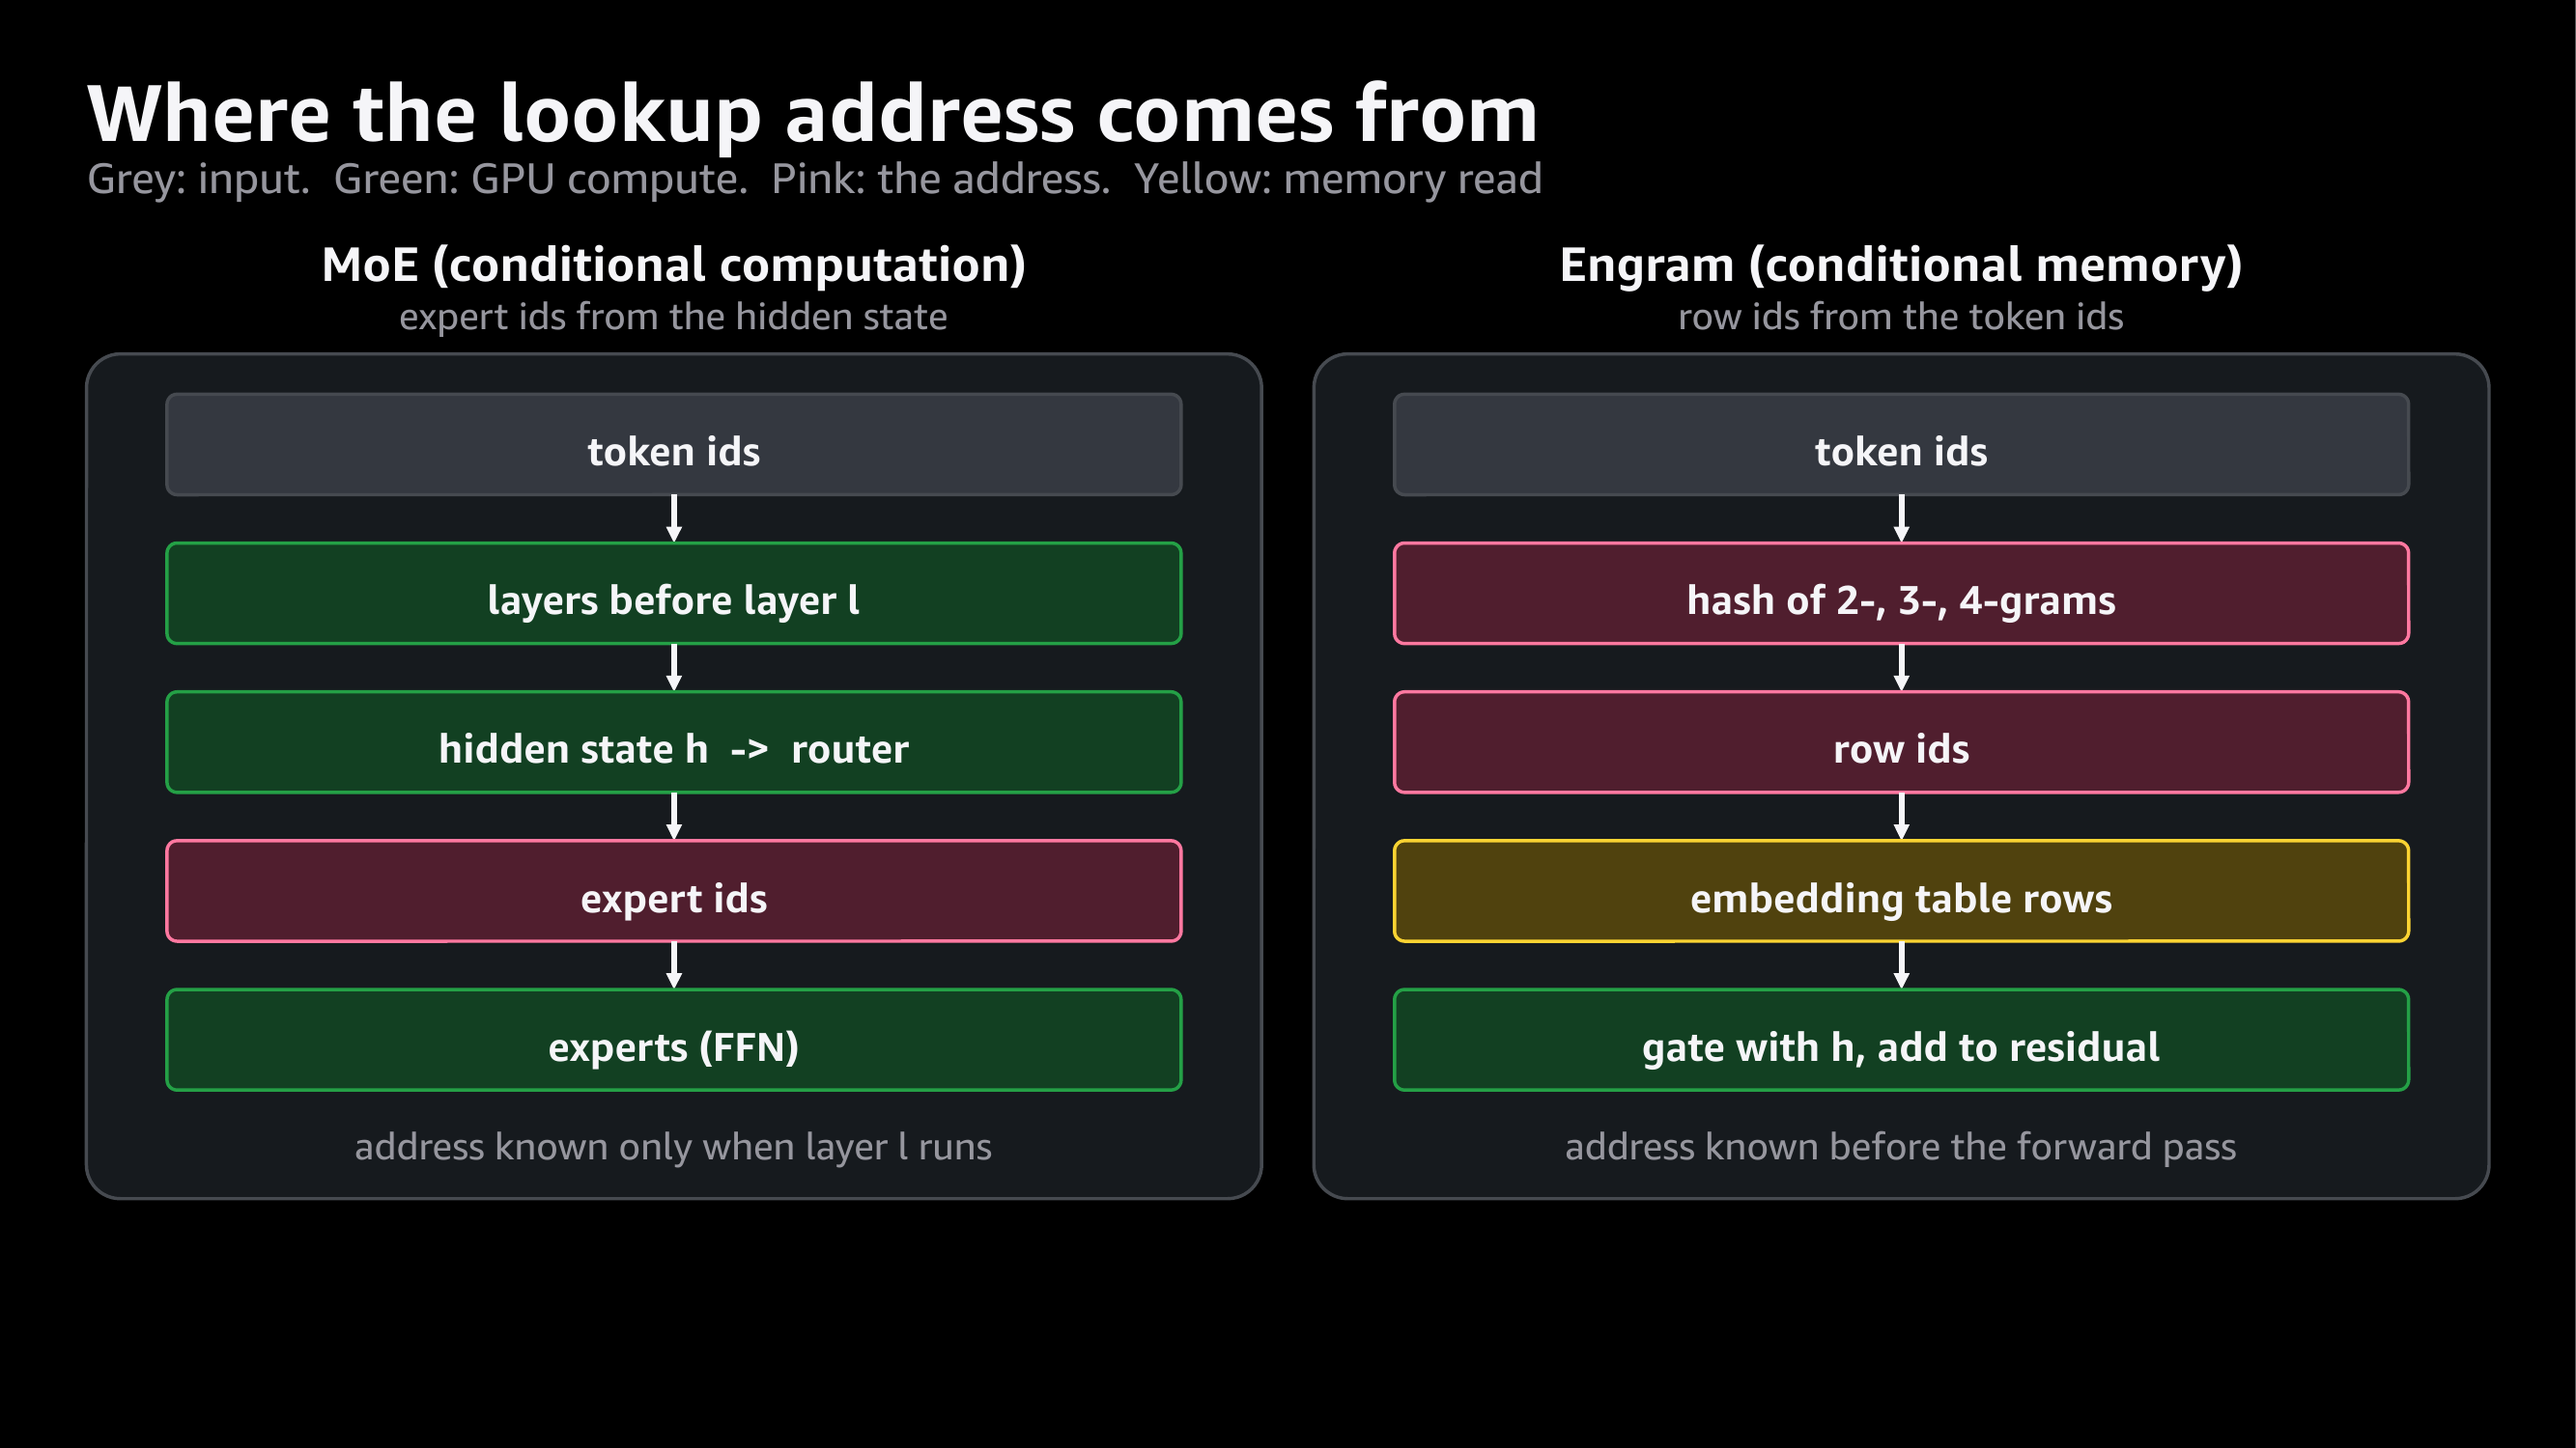
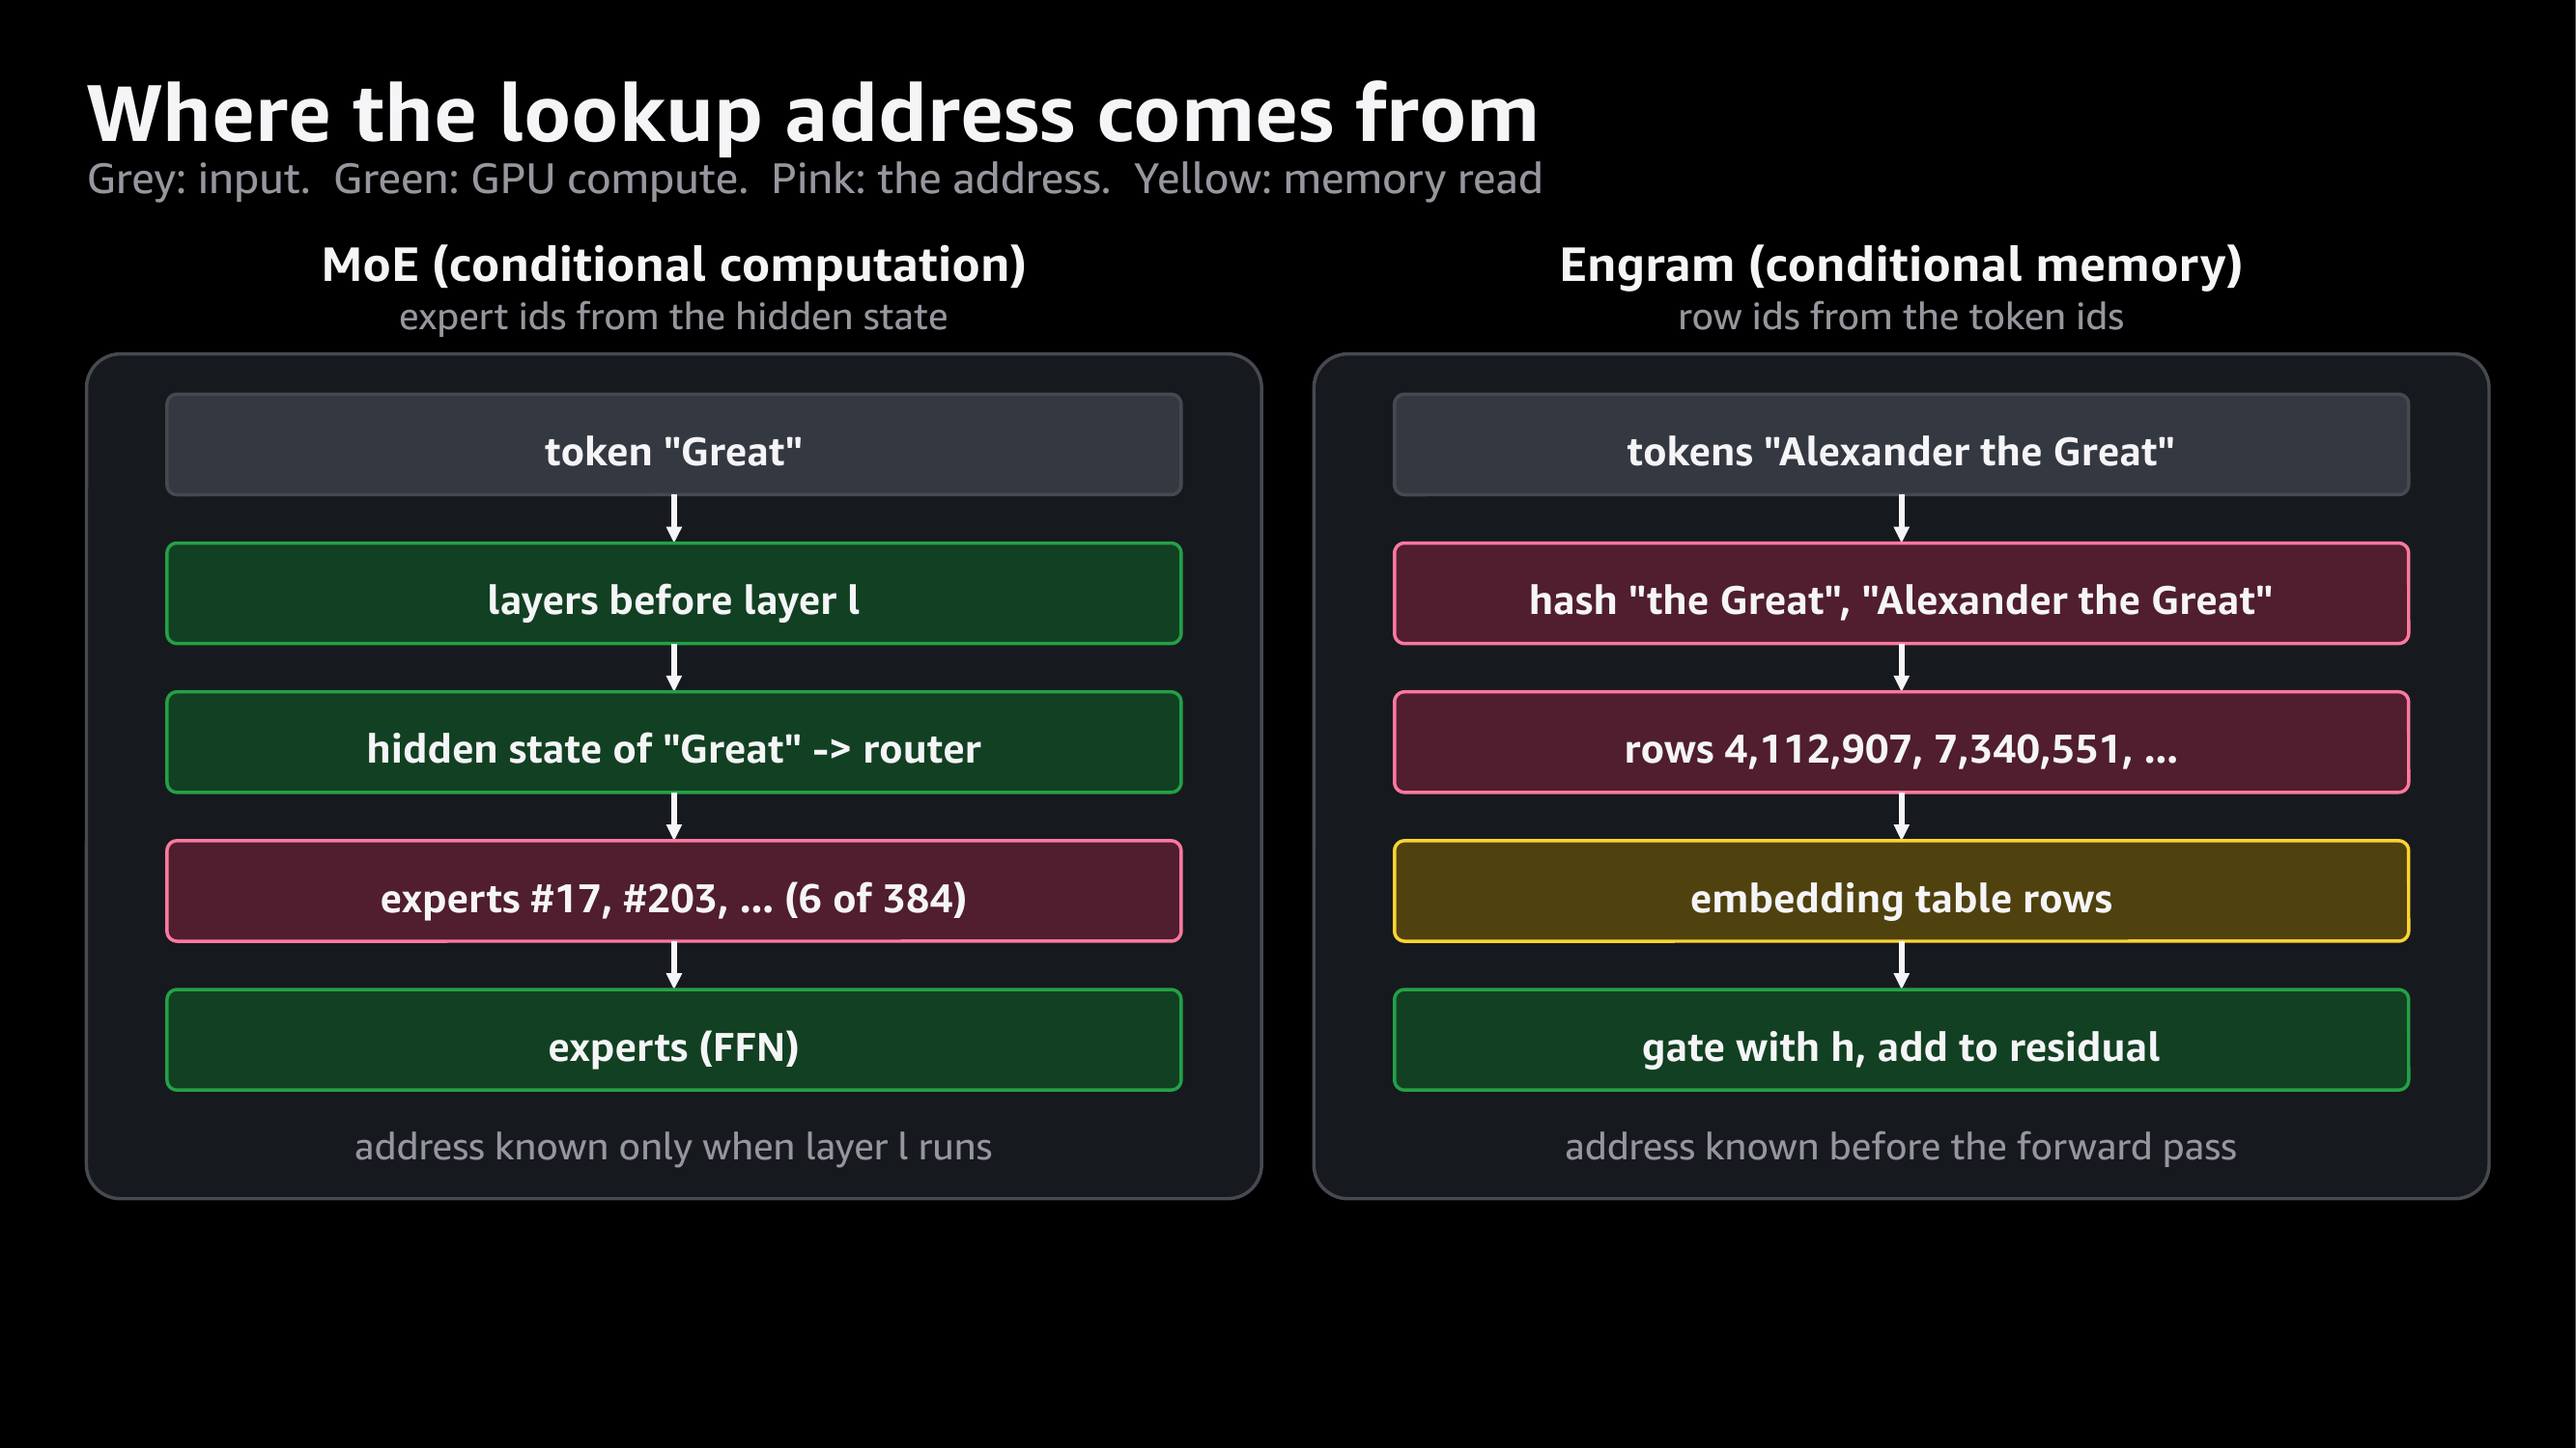
figures for zenn article 5853108f53bd7f: concrete example GIF, sparsity figure, relabeled address figure

diff --git a/zenn/articles/5853108f53bd7f/source/gen_engram_gifs.py b/zenn/articles/5853108f53bd7f/source/gen_engram_gifs.py
@@ -298,7 +298,80 @@ def get_frame(t):
 
 
 PNK_DK = (80, 30, 46)
-for name, fn, dur, stills in [("engram-lookup.gif", lookup_frame, 8.8, [12, 36, 58, 78, 104]),
+
+# ---------------------------------------------------------------- 4. concrete example (paper Figure 1 / 7)
+SENT = ["Only", "Alexander", "the", "Great", "could", "tame", "the", "horse"]
+GATE = [0.05, 0.15, 0.10, 0.95, 0.10, 0.05, 0.05, 0.10]   # illustrative, after paper Figure 7
+LEG4 = "Pink: n-gram and its row ids.  Yellow: table rows.  Green: gate and residual"
+
+
+def example_frame(t):
+    img, g = canvas()
+    ph = [(1.6, "1. Look at position t = \"Great\"", "the tokens just before it are known"),
+          (3.4, "2. Take the n-grams that end at t", "2-gram \"the Great\", 3-gram \"Alexander the Great\""),
+          (5.4, "3. Hash each n-gram into row numbers", "8 heads each; 3 shown, numbers illustrative"),
+          (7.2, "4. Read those rows from the table", "16 rows out of millions"),
+          (9.4, "5. Gate opens where a phrase completes", "high on \"Great\", low elsewhere"),
+          (11.0, "6. Add gate · value to the residual", "gated value joins the residual")]
+    h, sb = phase(t, ph)
+    head(g, h, sb, LEG4)
+    # sentence
+    x0 = 40
+    xs = []
+    for i, w in enumerate(SENT):
+        wd = 26 + len(w) * 9
+        xs.append((x0, wd))
+        lit = i == 3
+        rbox(g, x0, 118, wd, 36, GRN_DK if lit else CHIP, GRN if lit else EDGE, width=3 if lit else 2)
+        text(g, x0 + wd / 2, 136, w, 14, TX)
+        x0 += wd + 8
+    if t >= 1.6:
+        for k, (a, lab) in enumerate([(2, "2-gram"), (1, "3-gram")]):
+            y = 168 + k * 18
+            xa = xs[a][0]; xb = xs[3][0] + xs[3][1]
+            g.line([*P(xa, y), *P(xb, y)], fill=PNK, width=int(3 * R))
+            text(g, xb + 8, y, lab, 12, PNK, "lm")
+    # hash -> rows
+    if t >= 3.4:
+        rows = [("the Great", [4112907, 15733021, 902114]), ("Alexander the Great", [7340551, 1188263, 12004719])]
+        for k, (ng, ids) in enumerate(rows):
+            y = 220 + k * 60
+            text(g, 40, y + 18, f"\"{ng}\"", 13, PNK, "lm")
+            for j, v in enumerate(ids):
+                on = t >= 3.4 + (k * 3 + j) * 0.3
+                if on:
+                    rbox(g, 250 + j * 120, y, 110, 36, PNK_DK, PNK)
+                    text(g, 305 + j * 120, y + 18, f"{v:,}", 12, TX)
+            text(g, 620, y + 18, "... 8 heads", 12, MUTED, "lm")
+    # table rows
+    if t >= 5.4:
+        rbox(g, 720, 200, 210, 150, CHIP, YEL)
+        text(g, 825, 190, "Engram table", 12, MUTED)
+        u = clamp((t - 5.4) / 1.5)
+        for j in range(int(5 * u + 0.999)):
+            yy = 212 + j * 22
+            g.rectangle([*P(735, yy), *P(915, yy + 14)], fill=YEL_DK, outline=YEL, width=int(1 * R))
+        text(g, 825, 345 - 10, "each row = a learned vector", 11, MUTED)
+    # gate bars
+    if t >= 7.2:
+        text(g, 40, 372, "gate", 13, GRN, "lm")
+        u = clamp((t - 7.2) / 1.6)
+        for i, (x, wd) in enumerate(xs):
+            hgt = 70 * GATE[i] * u
+            g.rectangle([*P(x + wd / 2 - 10, 450 - hgt), *P(x + wd / 2 + 10, 450)], fill=GRN if i == 3 else (60, 90, 70))
+        g.line([*P(40, 450), *P(x0, 450)], fill=EDGE, width=int(1 * R))
+    if t >= 9.4:
+        rbox(g, 690, 395, 250, 50, GRN_DK, GRN, width=3)
+        text(g, 815, 420, "h_t + gate · value", 15, TX)
+    text(g, 480, 515, "example sentence from the Engram paper, Figure 1; row ids and gate heights illustrative", 12, MUTED)
+    return img.resize((OW, OH), Image.LANCZOS)
+
+
+if os.environ.get("ONLY_EXAMPLE"):
+    save([example_frame(i / FPS) for i in range(int(11.0 * FPS))], "engram-example.gif", [10, 30, 55, 78, 105, 128])
+
+if not os.environ.get("ONLY_EXAMPLE"):
+  for name, fn, dur, stills in [("engram-lookup.gif", lookup_frame, 8.8, [12, 36, 58, 78, 104]),
                               ("engram-prefetch.gif", prefetch_frame, 8.0, [12, 40, 70, 94]),
                               ("engram-get.gif", get_frame, 7.6, [14, 40, 62, 88])]:
-    save([fn(i / FPS) for i in range(int(dur * FPS))], name, stills)
+      save([fn(i / FPS) for i in range(int(dur * FPS))], name, stills)

diff --git a/zenn/articles/5853108f53bd7f/source/gen_engram_pptx.py b/zenn/articles/5853108f53bd7f/source/gen_engram_pptx.py
@@ -69,22 +69,22 @@ for x, head_, sub in [(43, "MoE (conditional computation)", "expert ids from the
     label(s, x, 142, 584, 24, sub, size=14, color=MUTED)
     box(s, x, 176, 584, 420, CHIP, stroke=EDGE, radius=0.04)
 # left
-box(s, 83, 196, 504, 50, GREY, stroke=EDGE, body="token ids", size=15)
+box(s, 83, 196, 504, 50, GREY, stroke=EDGE, body="token \"Great\"", size=15)
 arrow(s, 335, 246, 335, 270)
 box(s, 83, 270, 504, 50, GRN_DK, stroke=GRN, body="layers before layer l", size=15)
 arrow(s, 335, 320, 335, 344)
-box(s, 83, 344, 504, 50, GRN_DK, stroke=GRN, body="hidden state h  ->  router", size=15)
+box(s, 83, 344, 504, 50, GRN_DK, stroke=GRN, body="hidden state of \"Great\" -> router", size=15)
 arrow(s, 335, 394, 335, 418)
-box(s, 83, 418, 504, 50, PNK_DK, stroke=PNK, body="expert ids", size=15)
+box(s, 83, 418, 504, 50, PNK_DK, stroke=PNK, body="experts #17, #203, ... (6 of 384)", size=15)
 arrow(s, 335, 468, 335, 492)
 box(s, 83, 492, 504, 50, GRN_DK, stroke=GRN, body="experts (FFN)", size=15)
 label(s, 83, 552, 504, 30, "address known only when layer l runs", size=14, color=MUTED)
 # right
-box(s, 693, 196, 504, 50, GREY, stroke=EDGE, body="token ids", size=15)
+box(s, 693, 196, 504, 50, GREY, stroke=EDGE, body="tokens \"Alexander the Great\"", size=15)
 arrow(s, 945, 246, 945, 270)
-box(s, 693, 270, 504, 50, PNK_DK, stroke=PNK, body="hash of 2-, 3-, 4-grams", size=15)
+box(s, 693, 270, 504, 50, PNK_DK, stroke=PNK, body="hash \"the Great\", \"Alexander the Great\"", size=15)
 arrow(s, 945, 320, 945, 344)
-box(s, 693, 344, 504, 50, PNK_DK, stroke=PNK, body="row ids", size=15)
+box(s, 693, 344, 504, 50, PNK_DK, stroke=PNK, body="rows 4,112,907, 7,340,551, ...", size=15)
 arrow(s, 945, 394, 945, 418)
 box(s, 693, 418, 504, 50, YEL_DK, stroke=YEL, body="embedding table rows", size=15)
 arrow(s, 945, 468, 945, 492)
@@ -121,6 +121,29 @@ label(s, 735, 340, 140, 50, "rows", size=14, color=YEL)
 rank_pair(863, GRN_DK, GRN, "rank 0: get(row offset)\nflush_async, wait", GREY, EDGE, "rank 1: GPU not involved\nNIC reads its storage")
 arrow(s, 1130, 440, 1130, 296, color=YEL, width=3)
 label(s, 1145, 340, 100, 50, "rows", size=14, color=YEL)
+# ------------------------------------------------------------------ 3. sparse compute vs sparse memory
+s = d.slide().s
+title(s, "Two kinds of sparsity per token (DeepSeek-V4.1-Flash)",
+      "Green: used for this token (positions illustrative).  Grey: not used.  Yellow: Engram table")
+label(s, 43, 112, 584, 30, "MoE layer: sparse compute", size=18, bold=True)
+label(s, 653, 112, 584, 30, "Engram layer 1: sparse memory", size=18, bold=True)
+box(s, 43, 150, 584, 380, CHIP, stroke=EDGE, radius=0.04)
+box(s, 653, 150, 584, 380, CHIP, stroke=EDGE, radius=0.04)
+lit = {5, 41, 77, 130, 201, 333}
+for k in range(384):
+    r, c = divmod(k, 32)
+    x = 63 + c * 17
+    y = 170 + r * 22
+    on = k in lit
+    box(s, x, y, 13, 16, GRN if on else GREY, stroke=GRN if on else EDGE, radius=0.2, sw=0.5)
+label(s, 63, 450, 544, 30, "6 of 384 routed experts run their FFN", size=16)
+label(s, 63, 484, 544, 30, "cost: FLOPs of 6 experts", size=14, color=MUTED)
+box(s, 683, 180, 524, 240, YEL_DK, stroke=YEL, radius=0.02)
+for k in range(24):
+    x = 690 + (k * 97 % 510)
+    box(s, x, 184 + (k % 8) * 29, 6, 26, GRN, stroke=GRN, radius=0.0, sw=0.5)
+label(s, 673, 450, 544, 30, "24 of 384,006,168 rows are read", size=16)
+label(s, 673, 484, 544, 30, "the lookup itself: 24 × 256 bytes read", size=14, color=MUTED)
 d.save(OUT)
 # ZN-24: テンプレートのロゴ、著作権表示、ヘッダー、フッターを必ず消してから使う
 sys.path.insert(0, "/Users/akazawt/works/data-science/claudecode/.claude/skills/review-html/packs/zenn-doc/templates")
